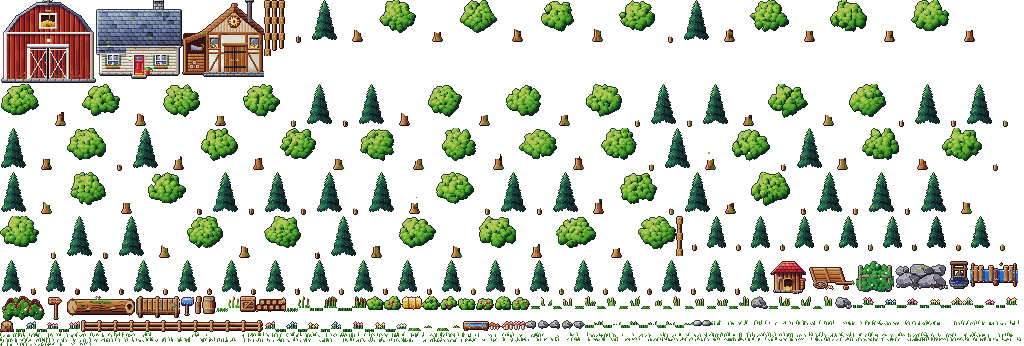
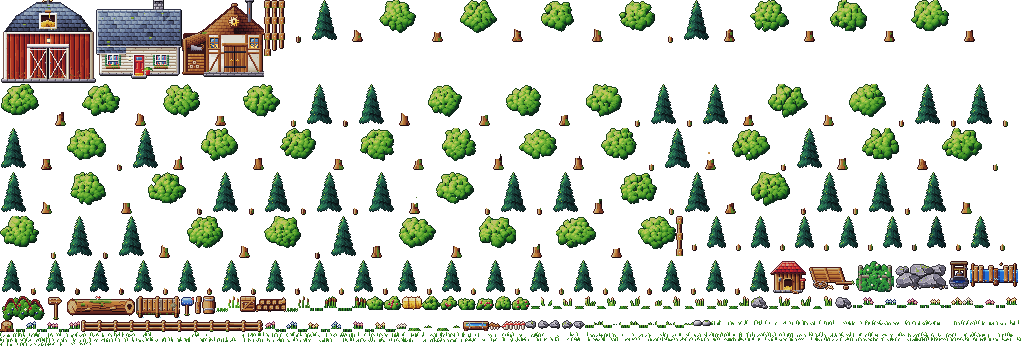
Give the barn and workshop real roofs, zoom the camera out a step
The barn and workshop were only shading a thin rim as their roof, so from
overhead they read as flat walls next to the farmhouse's proper shingled
roof. Both now use a full shingled roof plane like the farmhouse.

Also widened the camera's minimum view from 16x10 tiles to 20x13, so each
art pixel covers less screen space and reads less blocky.

Changed region(s): [[0.0, 0.0, 0.0938, 0.1156], [0.1562, 0.0289, 0.25, 0.1445]]

diff --git a/components/arcade/stackacres-td/topdown-world.tsx b/components/arcade/stackacres-td/topdown-world.tsx
@@ -33,14 +33,14 @@ import type { TopdownScene } from "./scene";
  *
  * Pixel art at a whole-number zoom: the canvas is the host at full device
  * resolution, and the camera zooms by the largest whole number that still
- * shows 16 tiles across and 10 down. Rendering at device resolution rather
+ * shows 20 tiles across and 13 down. Rendering at device resolution rather
  * than one canvas pixel per art pixel is what lets the farmer and the camera
  * glide a device pixel at a time; at art resolution every step was a 4px jump
  * and the farmer shook against the ground (see scene.ts's `placeCamera`).
  */
 
-export const MIN_TILES_ACROSS = 16;
-export const MIN_TILES_DOWN = 10;
+export const MIN_TILES_ACROSS = 20;
+export const MIN_TILES_DOWN = 13;
 
 /** Device pixels per CSS pixel, capped so a 3x screen does not bake a canvas
  *  nobody can afford. Read in one place so every layer drawn on this canvas

diff --git a/art/stackacres-td/rich/buildings.py b/art/stackacres-td/rich/buildings.py
@@ -272,8 +272,8 @@ def barn():
             return 12 + (y - peak) * (32 - 12) / (knee - peak)
         return 32 + (y - knee) * (44 - 32) / (eave - knee)
 
-    boards(c, cx - 44, peak, 89, eave - peak + 1, "barnred", 3.4, seed=30)
     boards(c, cx - 44, eave, 89, bottom - eave, "barnred", 3.4, seed=31, weather=0.35)
+    shingles(c, cx - 44, peak, cx + 44, eave, "slate", 6.4, 2.2, row_h=4, width=6, seed=30, moss=0.08)
     for y in range(peak, eave + 1):
         hw = half(y)
         for x in range(cx - 44, cx + 45):
@@ -281,21 +281,13 @@ def barn():
             if d < 0:
                 c.px[y][x] = None
                 continue
-            if d < 4:                                           # shingled roof edge, lit left, dark right
-                level = (6.2 if x < cx else 3.4) - d * 0.35
-                if (y + x // 3) % 3 == 0:
-                    level -= 0.9
-                if d >= 3:
-                    level = 1.2                                 # its underside
-                c.put(x, y, "slate", level)
-            elif d < 7:
-                p = c.get(x, y)
-                if p and p[0] == "barnred":
-                    c.put(x, y, "barnred", p[1] - (7 - d) * 0.6)  # the edge's shade on the boards
-            if y < peak + 7:
-                p = c.get(x, y)
-                if p and p[0] == "barnred":
-                    c.put(x, y, "barnred", p[1] - 0.8)
+            p = c.get(x, y)
+            if not p:
+                continue
+            if d < 2.2:                                         # dark eave-edge underside
+                c.put(x, y, p[0], p[1] - (2.2 - d) * 1.4)
+            elif y < peak + 6:                                   # ridge-line shade near the top
+                c.put(x, y, p[0], p[1] - 0.7)
     for x in range(cx - 44, cx + 45):                          # eave trim with its shade below
         c.put(x, eave, "white", 6.2)
         c.put(x, eave + 1, "white", 4.2)
@@ -562,11 +554,11 @@ def workshop():
             c.put(x, y, "wood", 0.5 + (y - 34) * 0.018 + (hash2(x // 4, y, 90) - 0.5) * 0.3)
     for x in range(1, L + 1):
         top = 30 + round((L - x) * 9 / (L - 1))
-        for k in range(6):
+        for k in range(11):
             row = k // 2
-            level = 4.8 - row * 0.9 - (0.9 if (x + row * 2) % 4 == 0 else 0) - (1.0 if k % 2 else 0)
+            level = 5.2 - row * 0.7 - (0.9 if (x + row * 2) % 4 == 0 else 0) - (1.0 if k % 2 else 0)
             c.put(x, top + k, "leather", level)
-        c.put(x, top + 6, "coal", 0.8)
+        c.put(x, top + 11, "coal", 0.8)
     for y in range(40, bottom):                                # the lean-to's front post
         c.put(2, y, "wood", 4.8)
         c.put(3, y, "wood", 3.2)
@@ -670,28 +662,21 @@ def workshop():
         c.put(rx + 1, dy0 + 14, "gold", 2.6)
         c.put(rx, dy0 + 15, "gold", 2.0)
 
-    # the gable: steep shingles framing a boarded face with the gear sign
+    # the gable: a full shingled slope from ridge to eave, not just a rim, with the gear sign set into it
     for y in range(peak, eave + 2):
         hw = (y - peak) * ((R - L) / 2 + 5) / (eave - peak)
+        row = (y - peak) // 3
         for x in range(round(mid - hw), round(mid + hw) + 1):
             d = min(x - (mid - hw), (mid + hw) - x)
-            if d < 8:
-                row = (y - peak) // 3
-                level = (5.4 if x < mid else 3.0) - d * 0.2 - (0.8 if (x + row * 3) % 5 == 0 else 0)
-                if (y - peak) % 3 == 2:
-                    level -= 1.1
-                if hash2(x // 5, row, 97) < 0.12 and d < 6:
-                    c.put(x, y, "moss", 2.8 + (1.0 if x < mid else 0))
-                    continue
-                if d >= 7:
-                    level = 0.6                                # the roof edge's underside
-                c.put(x, y, "leather", level)
-            elif y < eave:
-                board = (x - round(mid)) % 3
-                level = 4.2 + (0.8 if board == 0 else -0.7 if board == 2 else 0) + (hash2(x // 3, y, 98) - 0.5) * 0.5
-                if d < 10:
-                    level -= (10 - d) * 0.45                   # the roof's shade on the gable boards
-                c.put(x, y, "tan", level)
+            level = (5.4 if x < mid else 3.0) - d * 0.1 - (0.8 if (x + row * 3) % 5 == 0 else 0)
+            if (y - peak) % 3 == 2:
+                level -= 1.1
+            if hash2(x // 5, row, 97) < 0.12 and d < 6:
+                c.put(x, y, "moss", 2.8 + (1.0 if x < mid else 0))
+                continue
+            if d < 1.5:
+                level = 0.6                                    # the roof edge's underside
+            c.put(x, y, "leather", level)
     for x in range(round(mid) - 2, round(mid) + 3):            # ridge cap
         c.put(x, peak - 1, "leather", 5.4 if x < mid else 3.2)
         c.put(x, peak, "leather", 4.4 if x < mid else 2.6)
